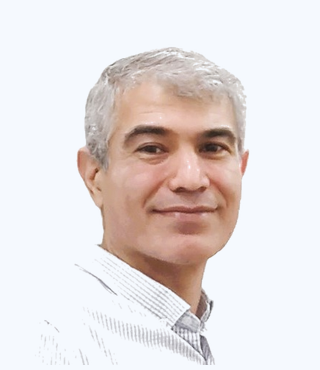
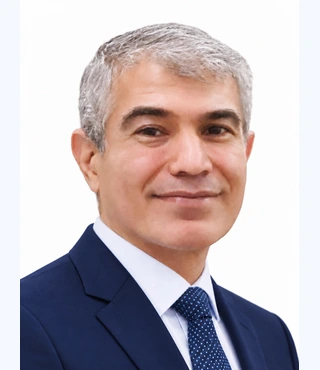
updated

diff --git a/README.md b/README.md
@@ -1,6 +1,6 @@
-# Designs by Groups 
+# How to Read the Database
 
-This database records nontrivial 2-designs admitting block-transitive
+This database records nontrivial \(2\)-designs admitting block-transitive
 automorphism groups, with a dedicated collection for flag-transitive designs.
 The data are organised into two principal sections, **Block-transitive**
 and **Flag-transitive**, and each section is further divided by
